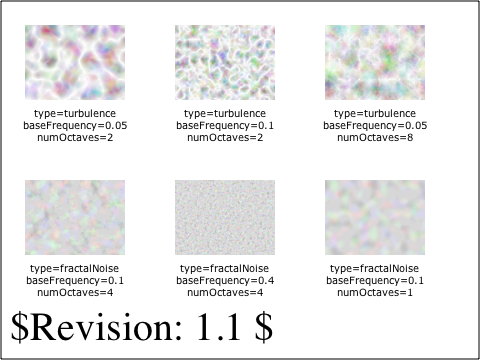
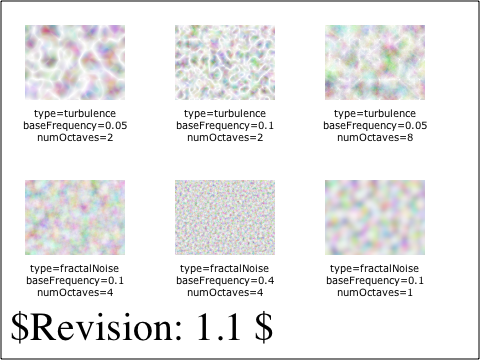
WebCore: Fix displaying problem of feTurbulence. https://bugs.webkit.org/show_bug.cgi?id=44111
Patch by Renata Hodovan <reni@inf.u-szeged.hu> on 2010-08-18
Reviewed by Dirk Schulze.

Change the order of calculating turbulenceFunctionResult
and clamping it. Furthermore remove the unnecessary rounding of m_seed.
Add a new test for checking the change of seed's value.

Test: svg/W3C-SVG-1.1/filters-turb-02-f.svg

* svg/graphics/filters/SVGFETurbulence.cpp:
(WebCore::FETurbulence::initPaint):
(WebCore::FETurbulence::calculateTurbulenceValueForPoint):
(WebCore::FETurbulence::apply):

LayoutTests: https://bugs.webkit.org/show_bug.cgi?id=44111

Patch by Renata Hodovan <reni@inf.u-szeged.hu> on 2010-08-18
Reviewed by Dirk Schulze.

Update expected result of test svg/W3C-SVG-1.1/filters-turb-01-f.svg and
add a new test for checking the change of the seed value.

* platform/mac/svg/W3C-SVG-1.1/filters-turb-01-f-expected.checksum:
* platform/mac/svg/W3C-SVG-1.1/filters-turb-01-f-expected.png:
* platform/mac/svg/W3C-SVG-1.1/filters-turb-02-f-expected.checksum: Added.
* platform/mac/svg/W3C-SVG-1.1/filters-turb-02-f-expected.png: Added.
* platform/mac/svg/W3C-SVG-1.1/filters-turb-02-f-expected.txt: Added.
* svg/W3C-SVG-1.1/filters-turb-02-f.svg: Added.

git-svn-id: https://svn.webkit.org/repository/webkit/trunk@65590 268f45cc-cd09-0410-ab3c-d52691b4dbfc

diff --git a/WebCore/svg/graphics/filters/SVGFETurbulence.cpp b/WebCore/svg/graphics/filters/SVGFETurbulence.cpp
@@ -181,7 +181,7 @@ inline void FETurbulence::initPaint(PaintingData& paintingData)
             gradient[1] /= normalizationFactor;
         }
     }
-    for (int i = s_blockSize - 1; i >= 0; --i) {
+    for (int i = s_blockSize - 1; i > 0; --i) {
         int k = paintingData.latticeSelector[i];
         int j = paintingData.random() % s_blockSize;
         ASSERT(j >= 0);
@@ -311,10 +311,12 @@ unsigned char FETurbulence::calculateTurbulenceValueForPoint(PaintingData& paint
         }
     }
 
-    // Clamp result
-    turbulenceFunctionResult = std::max(std::min(turbulenceFunctionResult, 255.f), 0.f);
+    // The value of turbulenceFunctionResult comes from ((turbulenceFunctionResult * 255) + 255) / 2 by fractalNoise
+    // and (turbulenceFunctionResult * 255) by turbulence.
     if (m_type == FETURBULENCE_TYPE_FRACTALNOISE)
-        return static_cast<unsigned char>(turbulenceFunctionResult * 127.5f + 127.5f); // It comes form (turbulenceFunctionResult * 255 + 255) / 2
+        turbulenceFunctionResult = turbulenceFunctionResult * 0.5f + 0.5f;
+    // Clamp result
+    turbulenceFunctionResult = std::max(std::min(turbulenceFunctionResult, 1.f), 0.f);
     return static_cast<unsigned char>(turbulenceFunctionResult * 255);
 }
 
@@ -328,7 +330,7 @@ void FETurbulence::apply(Filter* filter)
         return;
 
     RefPtr<ImageData> imageData = ImageData::create(imageRect.width(), imageRect.height());
-    PaintingData paintingData(floorf(fabsf(m_seed)), imageRect.size());
+    PaintingData paintingData(m_seed, imageRect.size());
     initPaint(paintingData);
 
     FloatRect filterRegion = filter->filterRegion();
